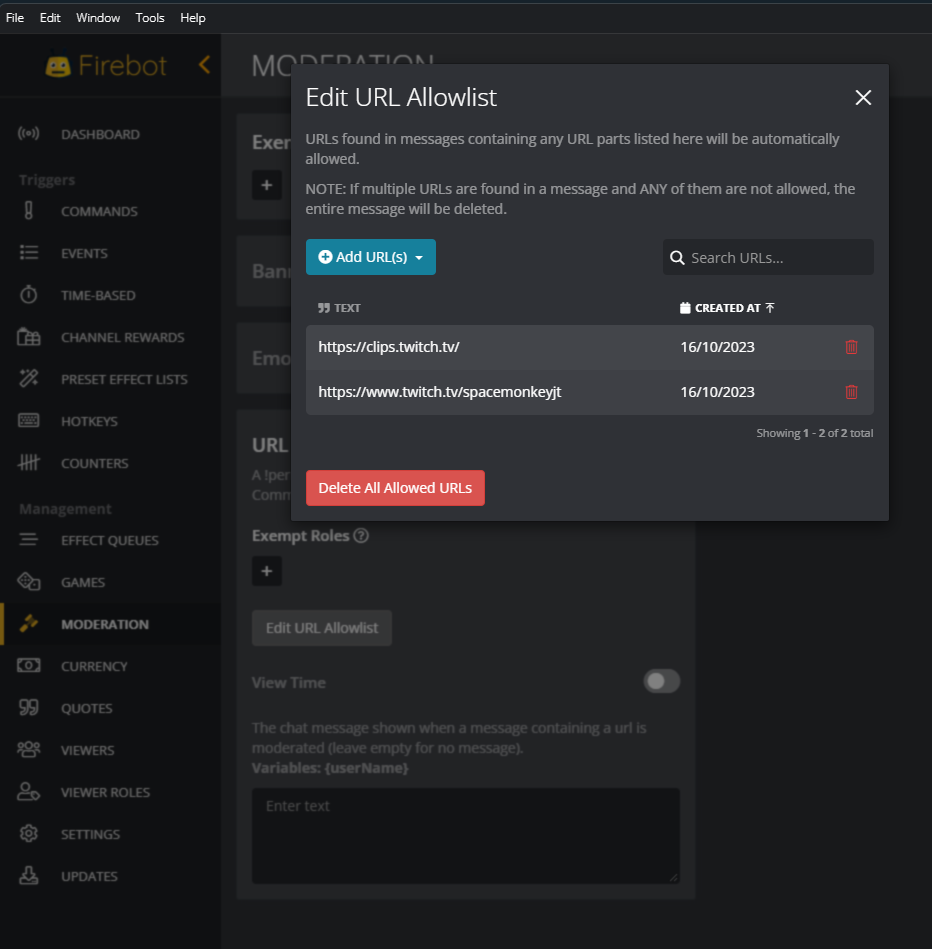
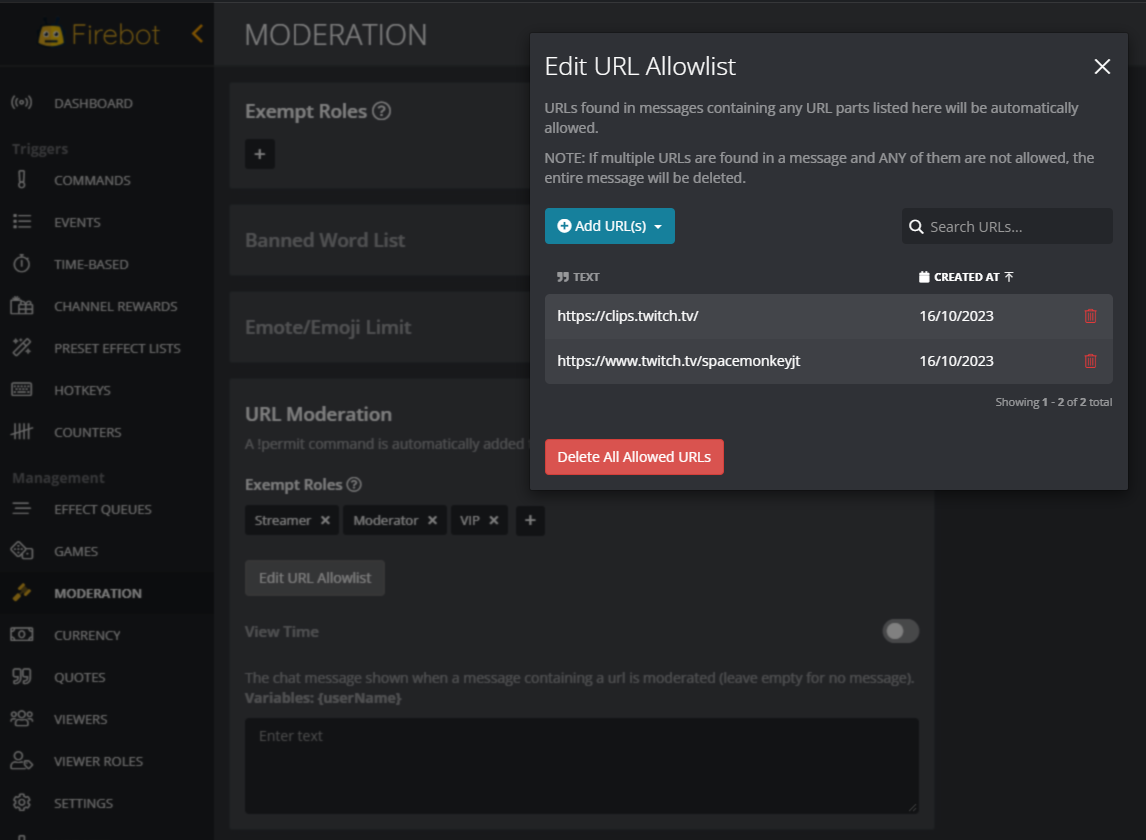
Update url moderation instructions

diff --git a/README.md b/README.md
@@ -33,7 +33,7 @@ Next, you need to block all links except for clips, which come in a couple of fo
 * https://www.twitch.tv/your_username
 * https://clips.twitch.tv/
 
-This can be done by enabling URL Moderation in Firebot, and configuring the URL Allowlist. Alternatively, you can use another tool such as Streamlabs or StreamElements if you prefer.
+This can be done by enabling URL Moderation in Firebot, and configuring the URL Allowlist. Alternatively, you can use another tool such as Streamlabs or StreamElements if you prefer. Make sure to exempt the streamer, mods and vips.
 
 ![Allowlist Firebot](./images/allowurls-firebot.png)
 
